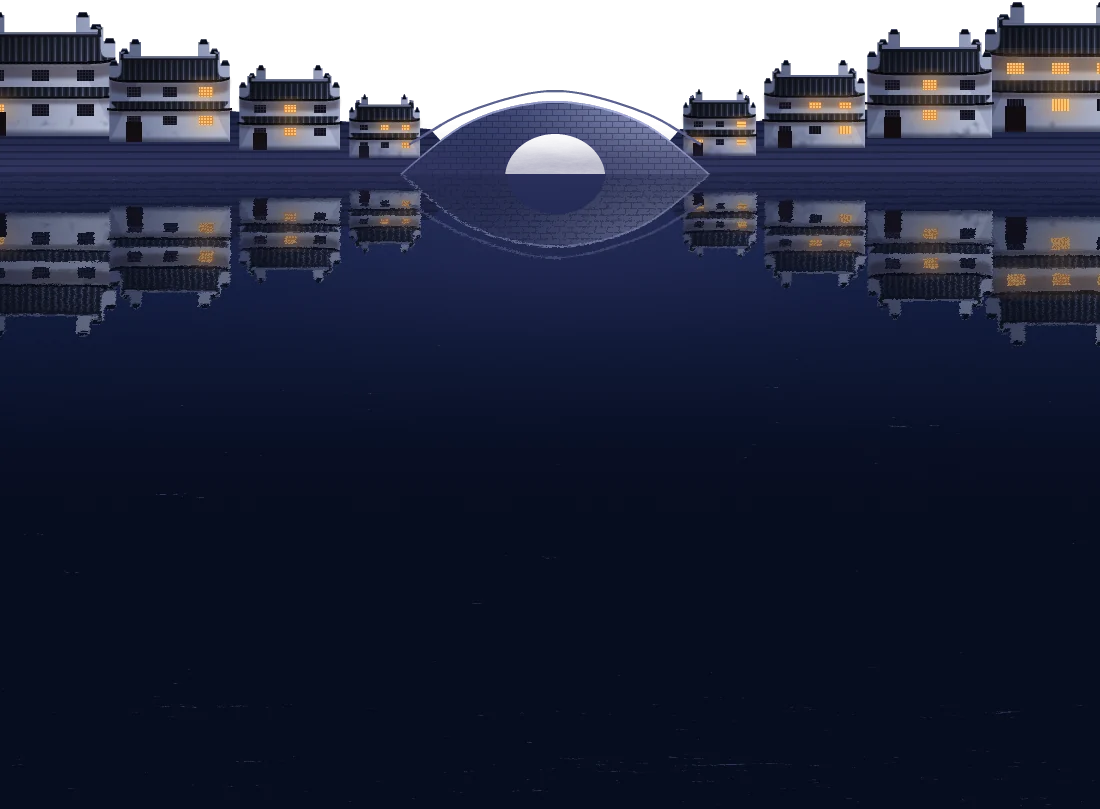
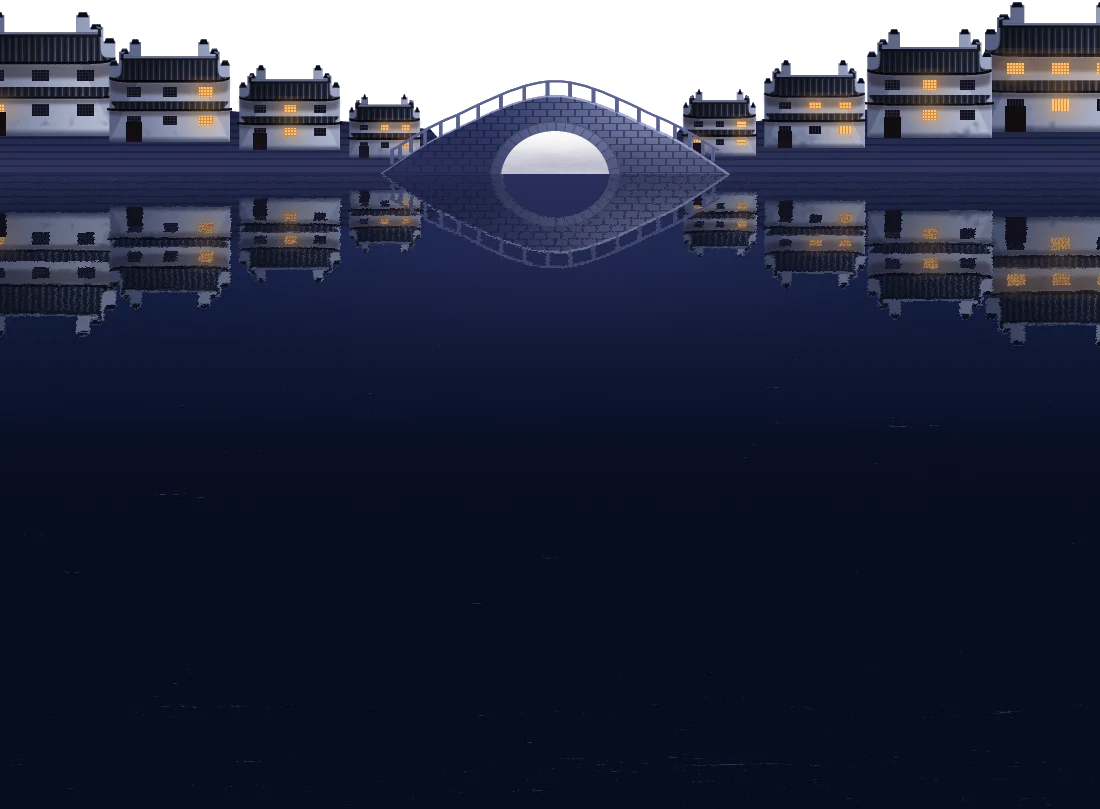
Ruta v29 · B1: sauces de verdad, puente de piedra con dovelas y balaustrada, más vida en el pueblo de agua
Sauces con cientos de hebras en dos profundidades y copa redondeada; puente de arco con sillares, dovelas,
musgo, pilares y su reflejo; ropa tendida que se mece, barcas con pasajera y paraguas; montes de tinta irregulares.

Claude-Session: https://claude.ai/code/session_01BaUMrzu23xfwmbCXf3BkLv

Changed region(s): [[0.34, 0.0927, 0.68, 0.3399], [0.4327, 0.1854, 0.4636, 0.2163]]

diff --git a/scripts/mundos/sprites.py b/scripts/mundos/sprites.py
@@ -219,7 +219,7 @@ def franja(ruta, w=600, h=40, c="#ffd9a0", f=0.6, seed=0, aniso=(6.0, 1.0)):
     guarda_png_rgba(np.broadcast_to(col(c), a.shape + (3,)), a, ruta)
 
 
-def barca(ruta, w=150, luz=1, farol_c="#ffb04a"):
+def barca(ruta, w=150, luz=1, farol_c="#ffb04a", pasajera=False):
     """Barca de toldo (乌篷船) con barquero y farol encendido, con su reflejo cálido (el sprite incluye el agua)."""
     h = int(w * 0.62)
     Lz = Lienzo(w, h)
@@ -235,6 +235,13 @@ def barca(ruta, w=150, luz=1, farol_c="#ffb04a"):
                                P.poly([(w * 0.76, yl - h * 0.45), (w * 0.84, yl - h * 0.45), (w * 0.8, yl - h * 0.52)]), P.linea([(w * 0.84, yl - h * 0.36), (w * 0.98, yl + h * 0.15)], 1.4)))
     C.pon("#0a0a12", bq)
     C.pon("#c8b0a0", borde(bq, luz * 1.2, -1) * 0.5)
+    if pasajera:  # pasajera sentada bajo un paraguas de papel encerado rojo
+        pj = Lz.mascara(lambda P: (P.elip(w * 0.55, yl - h * 0.22, w * 0.04, h * 0.1), P.elip(w * 0.55, yl - h * 0.36, w * 0.022, w * 0.022)))
+        C.pon("#2a1a2a", pj)
+        par = Lz.mascara(lambda P: (P.poly(spline([(w * 0.42, yl - h * 0.46), (w * 0.5, yl - h * 0.6), (w * 0.62, yl - h * 0.62), (w * 0.7, yl - h * 0.5)], 6) + [(w * 0.56, yl - h * 0.5)]),
+                                    P.linea([(w * 0.56, yl - h * 0.58), (w * 0.57, yl - h * 0.3)], 1.0)))
+        C.pon(mezcla(np.broadcast_to(col("#5a0c18"), par.shape + (3,)), col("#e04a3a"), volumen(par, 3, -luz, 1)[..., None]), par)
+        C.pon("#ffb080", borde(par, luz, -1) * 0.5)
     # farol en la proa con halo y su reflejo
     fx, fy = w * 0.2, yl - h * 0.3
     C.pon("#3a2a20", Lz.mascara(lambda P: P.linea([(w * 0.26, yl - h * 0.1), (w * 0.2, yl - h * 0.4)], 1.2)))
@@ -274,30 +281,61 @@ def halo(ruta, tam=200, c="#c8d8ff", f=0.8, p=1.6):
 
 
 def sauce(ruta, w=320, h=420, luz=1, seed=0, hoja=("#0a1a1c", "#3a6a5a"), rim="#9ab8d8"):
-    """Ramas colgantes de sauce llorón (cuelga desde arriba; se mece desde el borde superior)."""
+    """Sauce llorón: copa oscura arriba y cientos de hebras colgantes en dos profundidades (las de detrás más
+    oscuras y finas), con hojitas lanceoladas y luz de luna en el borde (se mece desde el borde superior)."""
     rng = np.random.default_rng(seed)
     Lz = Lienzo(w, h)
     C = Capa(Lz)
-    ramas = []
-    for _ in range(110):
-        x0 = rng.uniform(0, w * 0.95)
-        largo = rng.uniform(h * 0.4, h * 0.98)
-        curv = rng.uniform(-w * 0.05, w * 0.05)
-        ramas.append([(x0 + curv * np.sin(t * 2.4) + t * rng.uniform(-6, 10), t * largo) for t in np.linspace(0, 1, 18)])
 
-    def dib(P):
-        for r in ramas:
-            P.linea(r, 1.1)
-            for i in range(2, len(r)):
-                x, y = r[i]
-                for s in (-1, 1):
-                    P.trazo([(x, y), (x + s * 3.2, y + 5.5)], 2.0, 0.6)
+    def hebras(n, grosor, hojita, largo_min):
+        out = []
+        for _ in range(n):
+            x0 = w * (0.04 + 0.92 * rng.beta(1.6, 1.6))
+            env = np.sin(np.pi * x0 / w) ** 0.8  # copa redondeada: hebras largas en el centro, cortas en los lados
+            y0 = h * 0.1 * (1 - env) + rng.uniform(0, h * 0.06)
+            largo = rng.uniform(h * largo_min, h * 0.98) * (0.3 + 0.7 * env)
+            curv = rng.uniform(-w * 0.04, w * 0.04)
+            out.append([(x0 + curv * np.sin(t * 2.4) + t * t * rng.uniform(-4, 12), y0 + t * largo) for t in np.linspace(0, 1, 22)])
 
-    m = Lz.mascara(dib)
-    m = m * suave(0, h * 0.18, Lz.Y)  # nacen de la oscuridad de arriba (copa fuera de cuadro)
-    v = volumen(m, 4, -luz, 0.5)
-    C.pon(mezcla(np.broadcast_to(col(hoja[0]), m.shape + (3,)), col(hoja[1]), v[..., None]), m)
-    C.pon(rim, borde(m, luz * 1.2, -1) * 0.35)
+        def dib(P):
+            for r in out:
+                P.linea(r, grosor)
+                for k in range(3, len(r)):
+                    x, y = r[k]
+                    for s_ in (-1, 1):
+                        P.trazo([(x, y), (x + s_ * hojita * 0.55, y + hojita)], hojita * 0.32, 0.4)
+        return Lz.mascara(dib)
+
+    copa = desenfoca(Lz.mascara(lambda P: [P.elip(w * rng.uniform(0.15, 0.85), rng.uniform(-h * 0.04, h * 0.06), rng.uniform(w * 0.08, w * 0.16), rng.uniform(h * 0.03, h * 0.06)) for _ in range(10)]), 3) * 0.8
+    atras = hebras(140, 0.8, 4.5, 0.3)
+    delante = hebras(110, 1.1, 6.0, 0.45)
+    C.pon(mezcla(np.broadcast_to(col("#040a10"), atras.shape + (3,)), col("#1e3a3a"), volumen(atras, 5, -luz, 0.5)[..., None]), atras * 0.75)
+    C.pon(mezcla(np.broadcast_to(col("#030608"), atras.shape + (3,)), col("#14282a"), volumen(copa, 8, -luz, 0.8)[..., None]), copa)
+    v = volumen(delante, 4, -luz, 0.5)
+    C.pon(mezcla(np.broadcast_to(col(hoja[0]), delante.shape + (3,)), col(hoja[1]), v[..., None]), delante)
+    C.pon(rim, borde(delante, luz * 1.2, -1) * 0.4)
+    C.a = C.a * suave(-h * 0.02, h * 0.1, Lz.Y) * suave(0, w * 0.06, Lz.X) * suave(w, w * 0.94, Lz.X)
+    guarda_png_rgba(C.rgb, C.a, ruta)
+    return w, h
+
+
+def ropa(ruta, w=160, h=50, seed=0):
+    """Cuerda de ropa tendida entre dos casas (prendas de colores que cuelgan)."""
+    rng = np.random.default_rng(seed)
+    Lz = Lienzo(w, h)
+    C = Capa(Lz)
+    cuerda = [(x, 4 + 10 * np.sin(np.pi * x / w)) for x in np.linspace(0, w, 20)]
+    C.pon("#1a1a24", Lz.mascara(lambda P: P.linea(cuerda, 1.0)))
+    colores = ["#c8303a", "#3a5aa8", "#e8e0d0", "#d8a040", "#4a8a6a", "#a83a7a"]
+    x = 10
+    while x < w - 18:
+        pw = rng.uniform(10, 20)
+        ph = rng.uniform(14, 30)
+        y0 = 4 + 10 * np.sin(np.pi * (x + pw / 2) / w)
+        m = Lz.mascara(lambda P: P.poly([(x, y0), (x + pw, y0 + 1), (x + pw * 0.92, y0 + ph), (x + pw * 0.08, y0 + ph * 0.96)]))
+        c0 = col(colores[int(rng.integers(len(colores)))])
+        C.pon(mezcla(np.broadcast_to(c0 * 0.35, m.shape + (3,)), c0 * 0.85, volumen(m, 2, -1, 0, 1)[..., None]), m)
+        x += pw + rng.uniform(3, 9)
     guarda_png_rgba(C.rgb, C.a, ruta)
     return w, h
 

diff --git a/scripts/mundos/b1.py b/scripts/mundos/b1.py
@@ -172,7 +172,7 @@ def pinta(M):
     for k, (picos, base, tinta, f) in enumerate([
         ([(60, 560, 150), (240, 520, 130), (420, 585, 160), (900, 540, 150), (1080, 575, 140)], 720, "#3a3f72", 0.45),
         ([(150, 620, 170), (360, 600, 140), (820, 615, 160), (1000, 600, 170)], 740, "#262c5c", 0.3)]):
-        pf = perfil_picos(L, picos, rug=14, seed=18 + k, base=base)
+        pf = perfil_picos(L, picos, rug=26, seed=18 + k, base=base)
         sierra(C, pf, base, luz=LUZ, lit="#6a6fa6", sombra=tinta, aire="#4a4a80", aire_f=f, filo=0.6, filo_c="#b8c4ff", niebla_pie=("#4a4472", 110, 0.95), seed=18 + k, estrias=0.8)
     M.capa("lejos", C, 0.14)
 
@@ -216,16 +216,30 @@ def pinta(M):
         ox, oy = cx - P.L.w / 2, base - ybp
         C.pega(P, ox, oy)
         ventanas += [(vx + ox, vy + oy, vw, vh) for vx, vy, vw, vh in ven]
-    # puente de arco de piedra (拱桥) con escalones y barandilla
-    pu = L.mascara(lambda P: P.poly(spline([(400, y_agua), (470, 852), (555, 832), (640, 852), (710, y_agua)], 10) + [(710, y_agua + 2), (400, y_agua + 2)]))
-    arco = L.mascara(lambda P: P.elip(555, y_agua + 4, 50, 44))
+    # puente de arco de piedra (拱桥): sillares, dovelas en abanico alrededor del arco, escalones, balaustrada con
+    # pilares y farolillos; su reflejo cierra el círculo (lo pinta reflejo_capa más abajo)
+    cxp, ra, rb = 555, 54, 47
+    pu = L.mascara(lambda P: P.poly(spline([(380, y_agua), (450, 862), (555, 826), (660, 862), (730, y_agua)], 12) + [(730, y_agua + 2), (380, y_agua + 2)]))
+    arco = L.mascara(lambda P: P.elip(cxp, y_agua + 4, ra, rb))
     pm = np.clip(pu - arco, 0, 1)
-    pc_ = mezcla(np.broadcast_to(col("#3a4270"), (H, W, 3)), col("#a8b0d8"), suave(470, 700, X)[..., None] * 0.8)
-    pc_ = mezcla(pc_, col("#141a38"), (suave(830, 905, Y) * 0.4)[..., None])
-    pc_ = mezcla(pc_, col("#0c1024"), (((X + (np.floor(Y / 6) % 2) * 6) % 12 < 1) | ((Y % 6) < 0.8))[..., None] * 0.35)
+    ang = np.arctan2(Y - (y_agua + 4), X - cxp)
+    dist = np.sqrt(((X - cxp) / ra) ** 2 + ((Y - y_agua - 4) / rb) ** 2)
+    anillo = (dist > 1) & (dist < 1.22)
+    pc_ = mezcla(np.broadcast_to(col("#2e3664"), (H, W, 3)), col("#aab2dc"), suave(450, 720, X)[..., None] * 0.8)
+    pc_ = mezcla(pc_, col("#141a38"), (suave(840, 905, Y) * 0.45)[..., None])
+    sillar = (((X + (np.floor(Y / 7) % 2) * 7) % 14 < 1.1) | ((Y % 7) < 0.9))
+    dovela = anillo & ((np.mod(ang * 18 / np.pi, 1.0) < 0.12) | (np.abs(dist - 1.22) < 0.03))
+    pc_ = mezcla(pc_, col("#0c1024"), np.where(anillo, dovela, sillar)[..., None] * 0.45)
+    pc_ = mezcla(pc_, col("#c8d0f0"), (anillo * 0.18)[..., None])
+    musgo = suave(0.6, 0.75, L.ruido(1.5, 77)) * suave(870, 905, Y)
+    pc_ = mezcla(pc_, col("#2a4a3a"), musgo[..., None] * 0.5)
     C.pon(pc_, pm)
-    C.pon("#c8d0ff", borde(pm, 0, -1.5) * 0.6)
-    bar = L.mascara(lambda P: P.linea(spline([(410, y_agua - 30), (470, 842), (555, 822), (640, 842), (700, y_agua - 30)], 10), 2.2))
+    C.pon("#d8e0ff", borde(pm, LUZ * 1.2, -1.5) * 0.55)
+    C.pon("#060818", borde(arco, 0, -3, 1.5) * pm * 0.6)
+    cur = spline([(392, y_agua - 24), (452, 848), (555, 812), (658, 848), (718, y_agua - 24)], 14)
+    bar = L.mascara(lambda P: (P.linea(cur, 2.4), [P.rect(x - 1.6, y, x + 1.6, y + 14) for x, y in cur[::3]]))
+    C.pon(mezcla(np.broadcast_to(col("#3a4270"), (H, W, 3)), col("#b8c0e8"), suave(450, 720, X)[..., None] * 0.8), bar)
+    C.pon("#e8ecff", borde(bar, 0, -1) * 0.5)
     C.pon("#5a6290", bar)
     # agua del canal: refleja casas, puente y luces (el arco y su reflejo forman un círculo)
     agua = agua_noche(L, y_agua, 1250, "#16224a", "#070d20", glow=(555, y_agua + 30, 300, "#3a3a6a", 0.4))
@@ -267,8 +281,9 @@ def pinta(M):
     sp.halo(M.ruta("halo-luna.webp"), 220, "#c8d8ff", 0.75)
     M.actor("cielo", "halo-luna.webp", lx - 150, ly - 150, 300, 300, "respira", dur=7, op=0.9)
     bw, bh = sp.barca(M.ruta("barca.webp"), 150)
+    sp.barca(M.ruta("barca-p.webp"), 150, pasajera=True)
     M.actor("canal", "barca.webp", 330, 1205, bw * 0.9, bh * 0.9, "desliza", dur=34, retraso=-6, dx=22, dy=0.6)
-    M.actor("canal", "barca.webp", 690, 1290, bw * 1.15, bh * 1.15, "desliza", dur=42, retraso=-25, dx=-24, dy=-0.4, movil=False)
+    M.actor("canal", "barca-p.webp", 690, 1290, bw * 1.15, bh * 1.15, "desliza", dur=42, retraso=-25, dx=-24, dy=-0.4, movil=False)
     M.actor("pueblo", "barca.webp", 470, 930, bw * 0.45, bh * 0.45, "desliza", dur=28, retraso=-4, dx=8)
     fw, fh, fcx, _ = sp.farol(M.ruta("farol.webp"), 30, 46)
     for i, (x, y, s) in enumerate([(150, 1012, 0.6), (330, 1078, 0.55), (810, 1006, 0.6), (980, 990, 0.62), (470, 820, 0.36), (640, 820, 0.36), (560, 803, 0.32)]):
@@ -280,6 +295,10 @@ def pinta(M):
     for i, (vx, vy, vw, vh) in enumerate(ventanas_pueblo[::2] + ventanas[::2]):
         s = vw * 2.6
         M.actor("pueblo" if i < len(ventanas_pueblo[::2]) else "canal", "ventana.webp", vx - s / 2, vy - s / 2, s, s, "parpadea", dur=round(5 + (i * 1.7) % 6, 2), retraso=-i * 0.9, movil=i % 2 == 0)
+    rw_, rh_ = sp.ropa(M.ruta("ropa.webp"), 160, 50, seed=2)
+    for i, (x, y, s) in enumerate(((112, 1000, 0.7), (900, 992, 0.75), (250, 846, 0.45), (850, 850, 0.42))):
+        M.actor("canal" if i < 2 else "pueblo", "ropa.webp", x, y, rw_ * s, rh_ * s, "cuelga", dur=4 + i * 0.5, retraso=-i, amp=1.5, movil=i < 2)
+    M.actor("pueblo", "barca-p.webp", 610, 960, bw * 0.38, bh * 0.38, "desliza", dur=36, retraso=-14, dx=-9, movil=False)
     sw_, sh_ = sp.sauce(M.ruta("sauce.webp"), 320, 460, seed=4)
     M.actor("frente", "sauce.webp", -40, 200, sw_, sh_, "cuelga", dur=7, amp=1.6)
     M.actor("frente", "sauce.webp", 860, 230, sw_ * 0.9, sh_ * 0.9, "cuelga", dur=8.2, retraso=-3, amp=1.4, movil=False)
